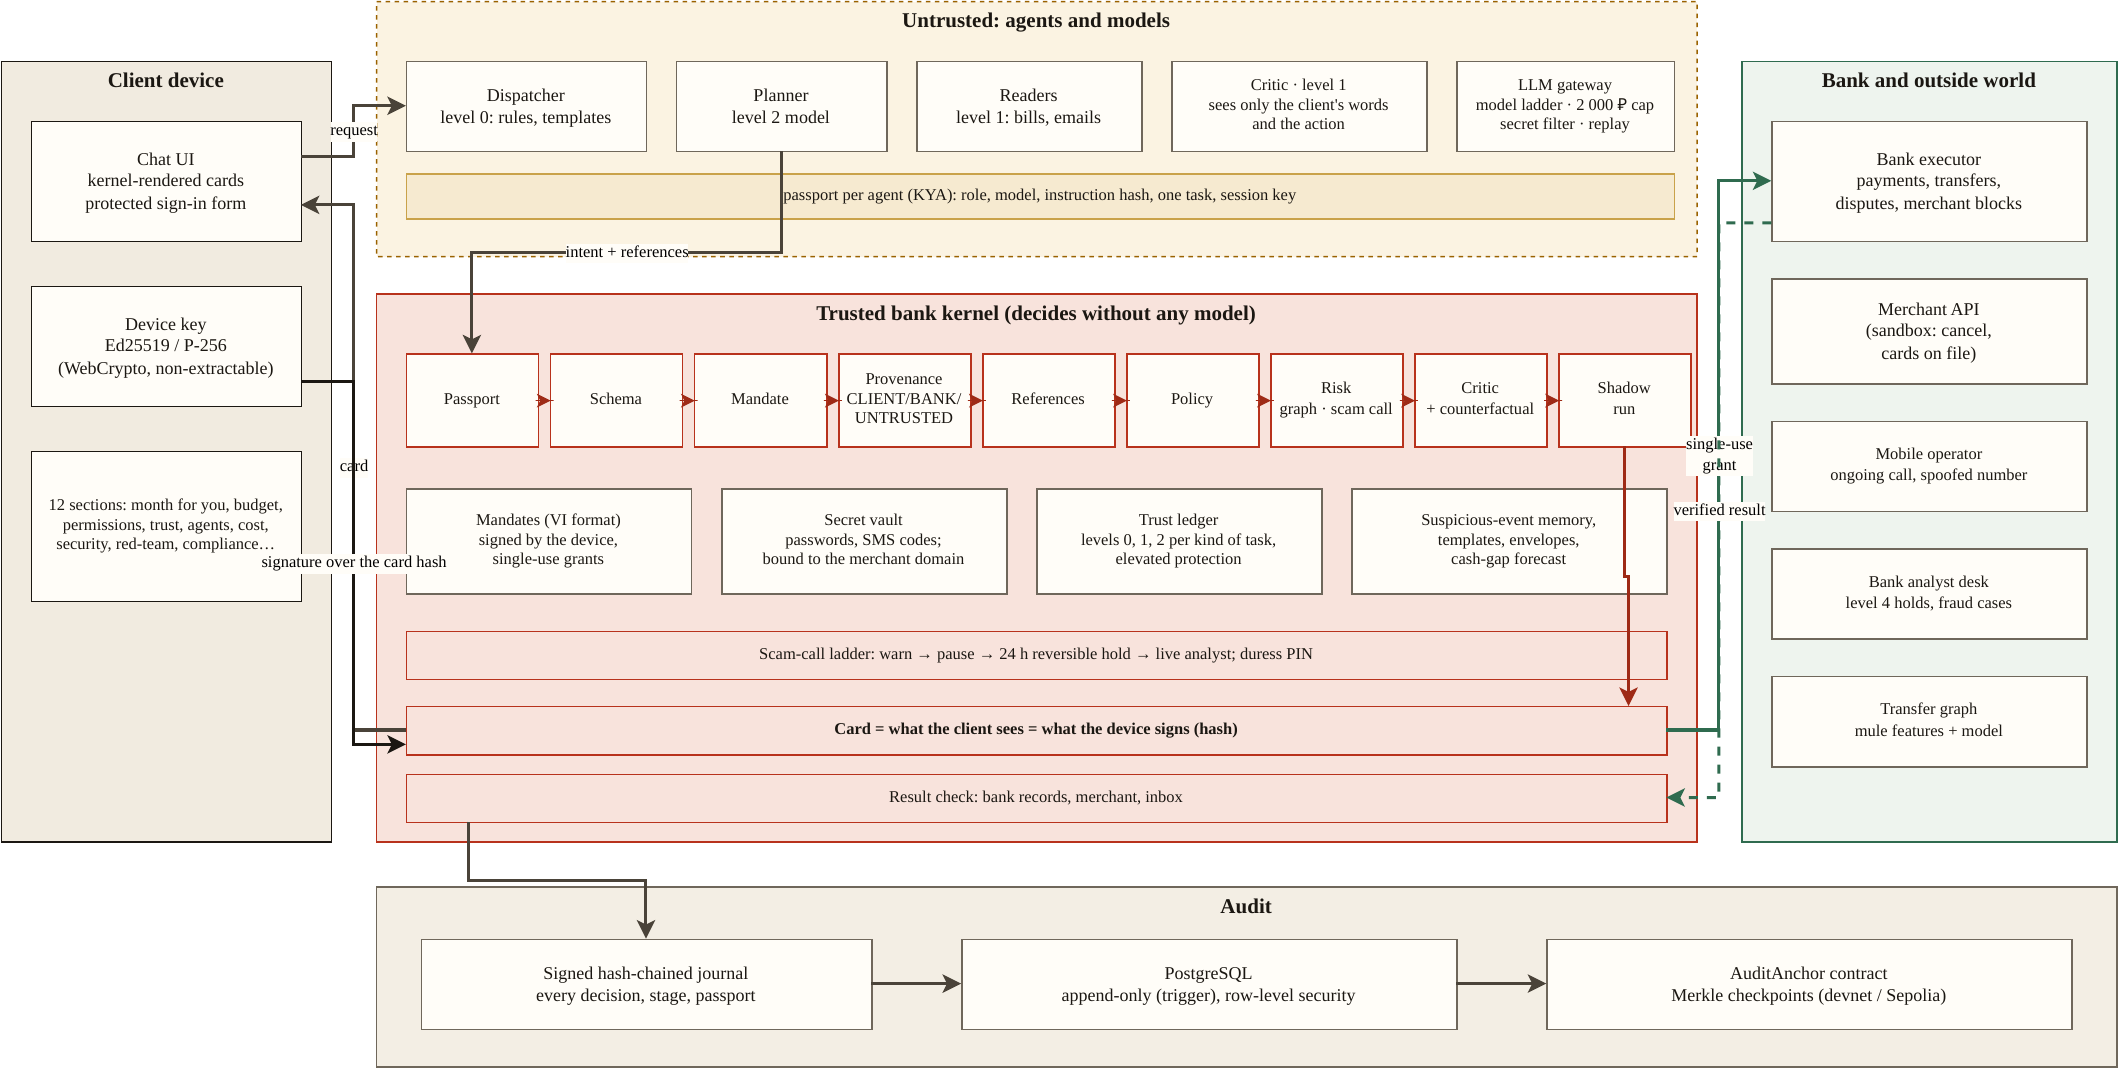
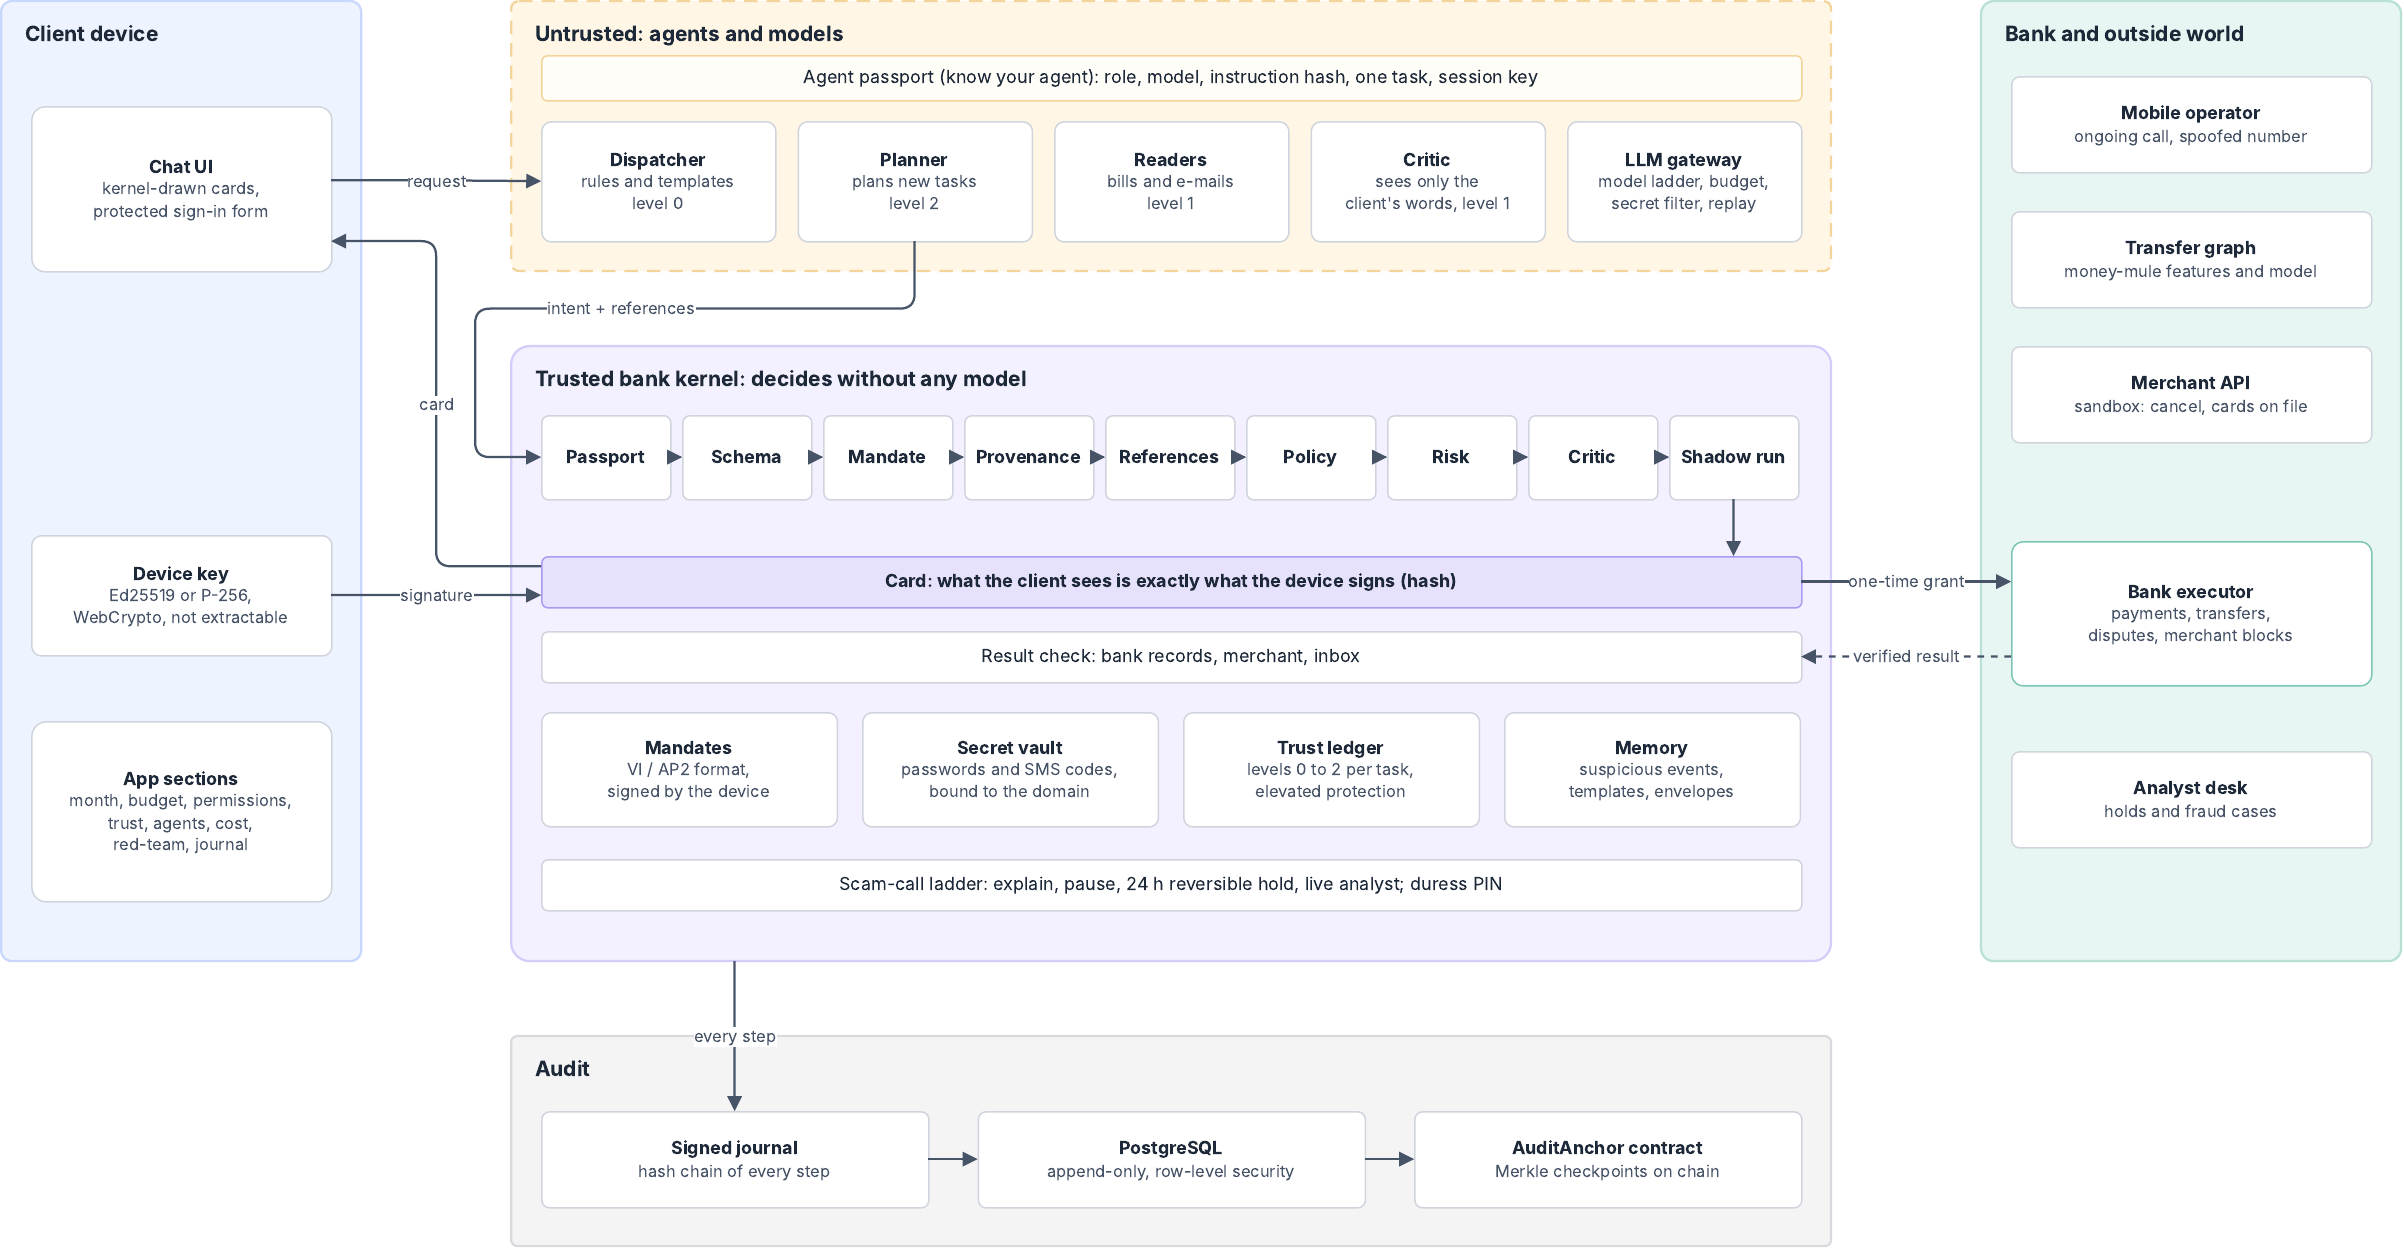
Redraw the architecture diagram from a script: pastel groups, routed arrows

diff --git a/docs/diagrams/architecture.py b/docs/diagrams/architecture.py
@@ -1,0 +1,148 @@
+"""Build docs/diagrams/architecture.drawio with exact coordinates, so no arrow crosses a block.
+
+    make diagram
+"""
+
+from __future__ import annotations
+
+from html import escape
+from pathlib import Path
+
+FONT = "fontFamily=Inter;"
+INK, MUTED, LINE = "#1d2939", "#475467", "#d0d5dd"
+GROUPS = {   # fill, stroke
+    "client": ("#eef4ff", "#c7d7fe"), "agents": ("#fff6e5", "#f3d49b"), "kernel": ("#f3f0ff", "#d4ccf9"),
+    "bank": ("#e8f6f3", "#b8e0d6"), "audit": ("#f4f4f5", "#d9d9de"),
+}
+
+cells: list[str] = []
+_n = 0
+
+
+def _id() -> str:
+    global _n
+    _n += 1
+    return f"n{_n}"
+
+
+def _label(title: str, *lines: str) -> str:
+    body = "".join(f"<br><font color=\"{MUTED}\" style=\"font-size:11px\">{escape(l)}</font>" for l in lines)
+    return escape(f"<b>{escape(title)}</b>{body}")
+
+
+def group(key: str, title: str, x: int, y: int, w: int, h: int, dashed: bool = False) -> str:
+    fill, stroke = GROUPS[key]
+    i = _id()
+    style = (f"rounded=1;arcSize=3;whiteSpace=wrap;html=1;fillColor={fill};strokeColor={stroke};strokeWidth=1.5;"
+             f"verticalAlign=top;align=left;spacingLeft=14;spacingTop=8;fontSize=14;fontStyle=1;fontColor={INK};"
+             f"{'dashed=1;dashPattern=6 4;' if dashed else ''}{FONT}")
+    cells.append(f'<mxCell id="{i}" value="{escape(title)}" style="{style}" vertex="1" parent="1">'
+                 f'<mxGeometry x="{x}" y="{y}" width="{w}" height="{h}" as="geometry"/></mxCell>')
+    return i
+
+
+def box(title: str, lines: tuple[str, ...], x: int, y: int, w: int, h: int, *, fill: str = "#ffffff",
+        stroke: str = LINE, size: int = 12) -> str:
+    i = _id()
+    style = (f"rounded=1;arcSize=8;whiteSpace=wrap;html=1;fillColor={fill};strokeColor={stroke};fontSize={size};"
+             f"fontColor={INK};spacing=6;{FONT}")
+    cells.append(f'<mxCell id="{i}" value="{_label(title, *lines)}" style="{style}" vertex="1" parent="1">'
+                 f'<mxGeometry x="{x}" y="{y}" width="{w}" height="{h}" as="geometry"/></mxCell>')
+    return i
+
+
+def bar(text: str, x: int, y: int, w: int, h: int = 34, *, fill: str = "#ffffff", stroke: str = LINE,
+        bold: bool = False) -> str:
+    i = _id()
+    style = (f"rounded=1;arcSize=12;whiteSpace=wrap;html=1;fillColor={fill};strokeColor={stroke};fontSize=12;"
+             f"fontColor={INK};{'fontStyle=1;' if bold else ''}{FONT}")
+    cells.append(f'<mxCell id="{i}" value="{escape(text)}" style="{style}" vertex="1" parent="1">'
+                 f'<mxGeometry x="{x}" y="{y}" width="{w}" height="{h}" as="geometry"/></mxCell>')
+    return i
+
+
+def edge(src: str, dst: str, points: list[tuple[int, int]] = (), *, label: str = "", dashed: bool = False,
+         exit: tuple[float, float] | None = None, entry: tuple[float, float] | None = None) -> None:
+    style = (f"edgeStyle=orthogonalEdgeStyle;rounded=1;html=1;strokeColor={MUTED};strokeWidth=1.5;endArrow=block;"
+             f"endSize=6;endFill=1;fontSize=11;fontColor={MUTED};labelBackgroundColor=#ffffff;{FONT}"
+             f"{'dashed=1;' if dashed else ''}")
+    if exit:
+        style += f"exitX={exit[0]};exitY={exit[1]};exitDx=0;exitDy=0;"
+    if entry:
+        style += f"entryX={entry[0]};entryY={entry[1]};entryDx=0;entryDy=0;"
+    pts = "".join(f'<mxPoint x="{x}" y="{y}"/>' for x, y in points)
+    arr = f'<Array as="points">{pts}</Array>' if pts else ""
+    cells.append(f'<mxCell id="{_id()}" value="{escape(label)}" style="{style}" edge="1" parent="1" source="{src}" '
+                 f'target="{dst}"><mxGeometry relative="1" as="geometry">{arr}</mxGeometry></mxCell>')
+
+
+# Columns: client 20..260 | channel | agents and kernel 360..1240 | channel | bank 1340..1620
+CX, KX, KW, BX = 20, 360, 880, 1340
+IX, IW = KX + 20, KW - 40                       # inner area of the centre column
+
+group("client", "Client device", CX, 20, 240, 640)
+group("agents", "Untrusted: agents and models", KX, 20, KW, 180, dashed=True)
+kernel = group("kernel", "Trusted bank kernel: decides without any model", KX, 250, KW, 410)
+group("bank", "Bank and outside world", BX, 20, 280, 640)
+group("audit", "Audit", KX, 710, KW, 140)
+
+chat = box("Chat UI", ("kernel-drawn cards,", "protected sign-in form"), CX + 20, 90, 200, 110)
+device = box("Device key", ("Ed25519 or P-256,", "WebCrypto, not extractable"), CX + 20, 376, 200, 80)
+box("App sections", ("month, budget, permissions,", "trust, agents, cost,", "red-team, journal"), CX + 20, 500, 200, 120)
+
+bar("Agent passport (know your agent): role, model, instruction hash, one task, session key", IX, 56, IW, 30,
+    fill="#fffdf7", stroke="#f3d49b")
+aw, ag = 156, 15
+agents = [box(t, l, IX + k * (aw + ag), 100, aw, 80) for k, (t, l) in enumerate([
+    ("Dispatcher", ("rules and templates", "level 0")), ("Planner", ("plans new tasks", "level 2")),
+    ("Readers", ("bills and e-mails", "level 1")), ("Critic", ("sees only the", "client's words, level 1")),
+    ("LLM gateway", ("model ladder, budget,", "secret filter, replay"))])]
+
+steps = ["Passport", "Schema", "Mandate", "Provenance", "References", "Policy", "Risk", "Critic", "Shadow run"]
+sw, sg = 86, 8
+pipe = [box(t, (), IX + k * (sw + sg), 296, sw, 56, size=12) for k, t in enumerate(steps)]
+for a, b in zip(pipe, pipe[1:]):
+    edge(a, b)
+card = bar("Card: what the client sees is exactly what the device signs (hash)", IX, 390, IW,
+           fill="#e6e1fd", stroke="#a99cf0", bold=True)
+result = bar("Result check: bank records, merchant, inbox", IX, 440, IW)
+sw2, sg2 = 197, 17
+for k, (t, l) in enumerate([("Mandates", ("VI / AP2 format,", "signed by the device")),
+                            ("Secret vault", ("passwords and SMS codes,", "bound to the domain")),
+                            ("Trust ledger", ("levels 0 to 2 per task,", "elevated protection")),
+                            ("Memory", ("suspicious events,", "templates, envelopes"))]):
+    box(t, l, IX + k * (sw2 + sg2), 494, sw2, 76)
+bar("Scam-call ladder: explain, pause, 24 h reversible hold, live analyst; duress PIN", IX, 592, IW, 34)
+
+bw = 240
+box("Mobile operator", ("ongoing call, spoofed number",), BX + 20, 70, bw, 64)
+box("Transfer graph", ("money-mule features and model",), BX + 20, 160, bw, 64)
+box("Merchant API", ("sandbox: cancel, cards on file",), BX + 20, 250, bw, 64)
+executor = box("Bank executor", ("payments, transfers,", "disputes, merchant blocks"), BX + 20, 380, bw, 96,
+               fill="#ffffff", stroke="#7cc5b4")
+box("Analyst desk", ("holds and fraud cases",), BX + 20, 520, bw, 64)
+
+aw3, ag3 = 258, 33
+journal = box("Signed journal", ("hash chain of every step",), IX, 760, aw3, 64)
+pg = box("PostgreSQL", ("append-only, row-level security",), IX + aw3 + ag3, 760, aw3, 64)
+anchor = box("AuditAnchor contract", ("Merkle checkpoints on chain",), IX + 2 * (aw3 + ag3), 760, aw3, 64)
+
+# Edges run only through the channels between the columns and rows.
+edge(chat, agents[0], label="request", exit=(1, 0.45), entry=(0, 0.5))
+edge(agents[1], pipe[0], [(IX + aw + ag + aw // 2, 225), (336, 225), (336, 324)], label="intent + references",
+     exit=(0.5, 1), entry=(0, 0.5))
+edge(pipe[-1], card, exit=(0.5, 1), entry=(round((8 * (sw + sg) + sw / 2) / IW, 4), 0))
+edge(card, chat, [(310, 397), (310, 180)], label="card", exit=(0, 0.2), entry=(1, 0.818))
+edge(device, card, label="signature", exit=(1, 0.5), entry=(0, 0.765))
+edge(card, executor, label="one-time grant", exit=(1, 0.5), entry=(0, round(27 / 96, 4)))
+edge(executor, result, label="verified result", dashed=True, exit=(0, round(77 / 96, 4)), entry=(1, 0.5))
+edge(kernel, journal, [(IX + aw3 // 2, 685)], label="every step", exit=(round((IX + aw3 / 2 - KX) / KW, 4), 1), entry=(0.5, 0))
+edge(journal, pg)
+edge(pg, anchor)
+
+xml = ('<mxfile><diagram name="Architecture" id="a"><mxGraphModel dx="1640" dy="870" grid="0" gridSize="10" '
+       'guides="1" tooltips="1" connect="1" arrows="1" fold="1" page="1" pageScale="1" pageWidth="1640" '
+       'pageHeight="870" math="0" shadow="0"><root><mxCell id="0"/><mxCell id="1" parent="0"/>'
+       + "".join(cells) + "</root></mxGraphModel></diagram></mxfile>\n")
+Path(__file__).with_name("architecture.drawio").write_text(xml, encoding="utf-8")
+print(Path(__file__).with_name("architecture.drawio"))
